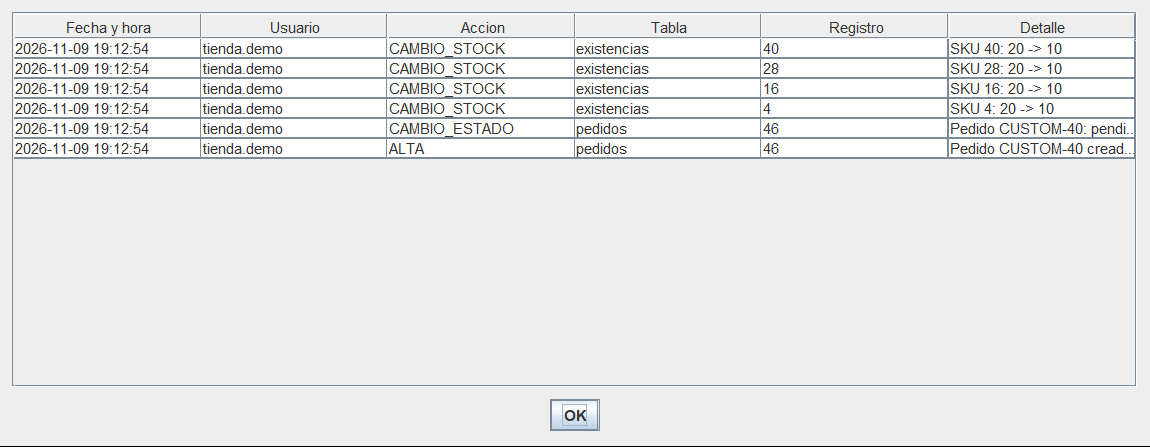
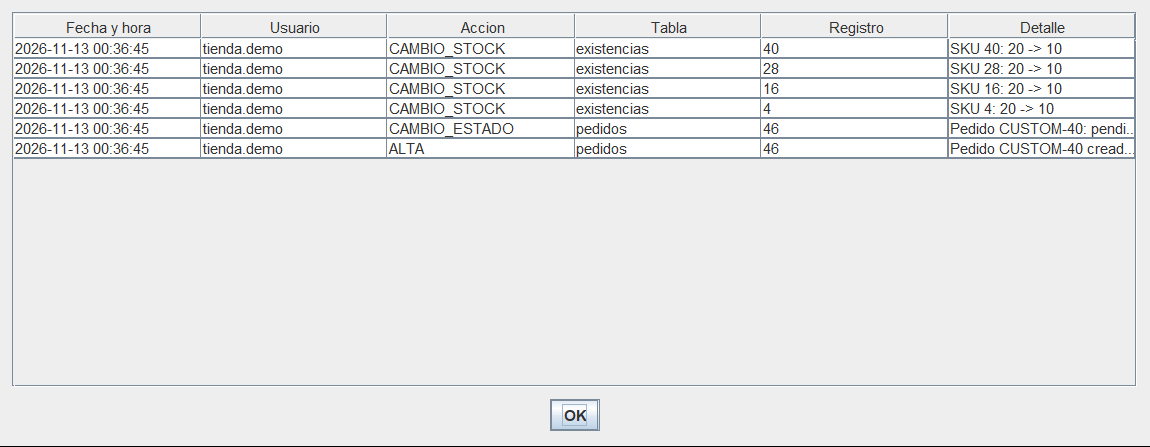
Repeat the Swing window test on the candidate and keep the Java output files
The window test of 9/11 passes again on this branch: 76 checks plus the one without a database. Capture 19 shows the table after Limpiar filtros, and the folder keeps the TXT and CSV the application wrote during the test. java-pruebas-rubrica keeps the PruebasRubrica result (47/47) with its TXT, JSON and CSV.

Changed region(s): [[0.0609, 0.0872, 0.1522, 0.349]]

diff --git a/pruebas/acceso-datos/java-swing/README.md b/pruebas/acceso-datos/java-swing/README.md
@@ -1,15 +1,21 @@
 # Evidencias de la aplicación Java Swing (Acceso a Datos)
 
-Capturas de la aplicación de `acceso-datos/java` tomadas el 9 de noviembre de 2026.
+Capturas de la aplicación de `acceso-datos/java` tomadas el 9 de noviembre de 2026 y
+**repetidas el 13 de noviembre de 2026 sobre la versión candidata** (rama
+`integracion/candidata-2`): 76 PASS y 0 FAIL con la base, más 1 PASS sin conexión.
+Las capturas de ahora sustituyen a las del 9/11; solo cambian la 06 y la 10, por la
+fecha de los pedidos y de la auditoría. Se añade la 19 (la tabla después de «Limpiar
+filtros»).
 
-- **Base de datos:** una base de prueba reconstruida desde cero con los scripts de
-  `acceso-datos/sql`, no la base real. Los usuarios son los de demostración
+- **Base de datos:** una base de prueba reconstruida desde cero con los scripts 1–17
+  de `acceso-datos/sql`, no la base real. Los usuarios son los de demostración
   (`admin.demo`, `tienda.demo` y `taller.demo`) y los clientes son los ficticios de
   `05_datos_prueba.sql`.
 - **Cómo se hicieron:** un programa de prueba abrió la aplicación real
   (`VentanaLogin`), escribió en los campos y pulsó los botones con los tres roles.
   Comparó lo que salía en pantalla con consultas SQL: 77 comprobaciones, todas PASS
-  (`resultado-prueba-ventanas.txt`).
+  (`resultado-prueba-ventanas.txt`). El programa de prueba no está en el repositorio:
+  es una herramienta de la prueba, no de la aplicación.
 - **Qué se ve:** cada captura es la ventana de la aplicación, sin la barra de Windows.
 - **La ruta `N:\NOVA`** es una unidad virtual que solo se usó para la prueba, para que
   la captura del CSV no enseñe carpetas personales.
@@ -23,6 +29,7 @@ Capturas de la aplicación de `acceso-datos/java` tomadas el 9 de noviembre de 2
 | 3.7 Mensaje comprensible cuando la base rechaza una operación | 14 (talla que no existe), 16 (permiso denegado) |
 | 3.7 Consulta visual con «Buscar / Consultar» y tabla legible | 06 |
 | 3.7 Tres filtros combinables | 06 (cliente + estado), 08 (modelo + desde + hasta) |
+| 3.7 «Limpiar filtros» y consulta sin filtros | 19 (los filtros vacíos y los 12 pedidos) |
 | 3.7 Resultado vacío | 08 («No hay pedidos con esos filtros.») |
 | 3.7 Error de conexión | 18 |
 | 3.7 Consulta incorrecta | 09 (fecha mal escrita) |
@@ -31,12 +38,13 @@ Capturas de la aplicación de `acceso-datos/java` tomadas el 9 de noviembre de 2
 | 3.8 Un usuario de prueba por rol | 04 (administrador), 15 (comercial), 17 (trabajador) |
 | 3.8 Operación denegada | 16 |
 | 3.8 Usuario y hora en `log_eventos` | 10 (auditoría vista por el administrador) |
-| 3.9 Prueba E (sin filtros, filtros combinados) | 06, 08 |
+| 3.9 Prueba E (sin filtros, filtros combinados) | 19, 06, 08 |
 | 3.9 Prueba F (búsqueda sin resultados y perfil sin permiso) | 08, 16 |
 | 3.12 Panel de indicadores calculado en PostgreSQL | 11 |
 | 3.12 Análisis por modelo y talla | 11 («Modelos más solicitados» y «Pares por talla») |
 | 3.12 Stock bajo con umbral configurable, ordenado | 11 (umbral 10, sin resultados y con aviso), 12 (umbral 25), 13 (umbral negativo rechazado) |
-| 3.12 CSV de la consulta filtrada | 06 (2 pedidos en la tabla) y 07 (2 filas exportadas) |
+| 3.12 CSV de la consulta filtrada | 06 (2 pedidos en la tabla), 07 (2 filas exportadas) y el propio CSV, `consulta_pedidos-exportada-captura-07.csv` |
+| 3.10 TXT de actividad: las líneas nuevas | `actividad_sneaker-prueba-ventanas.txt`: las 52 líneas que escribió la aplicación durante la prueba (inicios de sesión, consultas, «Limpiar filtros», indicadores, rechazos y cierres de sesión), sin ninguna contraseña |
 | 3.13 Prueba J (indicadores y CSV comparados con SQL) | 11, 12 y 07; la comparación está en `resultado-prueba-ventanas.txt` |
 
 ## Lista de capturas
@@ -61,6 +69,7 @@ Capturas de la aplicación de `acceso-datos/java` tomadas el 9 de noviembre de 2
 | 16-auditoria-denegada-comercial | El comercial pulsa «Ver auditoría» y recibe «Acceso denegado» |
 | 17-taller.demo-inicio | Trabajador: solo Consultas e Indicadores |
 | 18-error-conexion | Sin PostgreSQL: mensaje de error de conexión |
+| 19-admin.demo-tras-limpiar-filtros | Después de «Limpiar filtros»: los filtros vacíos y los 12 pedidos (13/11) |
 
 ## Lo que todavía no tiene captura
 
@@ -71,8 +80,8 @@ hacerlas a mano en la demostración:
   pares), ver su detalle y confirmarlo.
 - **Pruebas B y C:** confirmar sin stock y cancelar un pedido confirmado.
 - **Prueba D:** el ROLLBACK, que se enseña con SQL.
-- **«Limpiar filtros»:** la tabla después de pulsarlo.
-- **3.10 y prueba G:** `actividad_sneaker.txt` con las líneas nuevas después de tres consultas.
+- **3.10 y prueba G:** la captura de `actividad_sneaker.txt` abierto. El archivo de la
+  prueba está en esta carpeta, y el de `PruebasRubrica`, en `../java-pruebas-rubrica/`.
 - **3.11 y prueba I:** la pestaña Usuarios (crear y desactivar), `usuarios_sneaker.json` y la
   exportación denegada al comercial.
-- **El CSV abierto,** para ver su contenido.
+- **El CSV abierto** en un editor. El archivo exportado está en esta carpeta.

diff --git a/pruebas/acceso-datos/java-pruebas-rubrica/README.md b/pruebas/acceso-datos/java-pruebas-rubrica/README.md
@@ -1,0 +1,24 @@
+# Batería de Java (`PruebasRubrica`) y los archivos que escribe
+
+Resultado de `nova.PruebasRubrica` (lo mismo que lanza `acceso-datos/java/pruebas.bat`)
+el 13 de noviembre de 2026, sobre la rama `integracion/candidata-2`.
+
+- **Base de datos:** una base desechable montada desde cero con los scripts 01 a 23 de
+  `acceso-datos/sql` (la batería 09–16 dio 123 PASS, 0 FAIL y el ERROR previsto). No
+  es la base del equipo.
+- **Resultado:** **47 PASS y 0 FAIL** (`resultado-pruebas-rubrica.txt`): inicio de
+  sesión, pruebas A a J y permisos. Cada cifra se compara con una consulta SQL.
+- **Contraseñas:** se escribieron por teclado. Ningún archivo de esta carpeta lleva
+  contraseñas ni hashes (la prueba I2 lo comprueba en el JSON).
+
+Los tres archivos que escribe la aplicación en su carpeta `salidas/` durante la
+batería:
+
+| Archivo | Qué demuestra | Prueba |
+|---|---|---|
+| `actividad_sneaker.txt` | El TXT de actividad: una línea por operación (inicio de sesión, consulta, alta, confirmación, cancelación, intentos rechazados…) con fecha, usuario, rol, operación, resultado y detalle. Solo se añaden líneas | G1 (tres consultas, tres líneas nuevas) |
+| `usuarios_sneaker.json` | El JSON de usuarios después de crear, cambiar de rol y desactivar uno: `id_usuario`, `username`, `rol` y `activo`, sin contraseñas | I1 a I4 |
+| `consulta_pedidos.csv` | El CSV de la consulta filtrada: la misma cabecera y las mismas celdas que la tabla | J6 |
+
+Las fechas de los pedidos son la hora en que se montó la base. Las capturas de las
+ventanas, con el CSV exportado desde la ventana y su TXT, están en `../java-swing/`.
